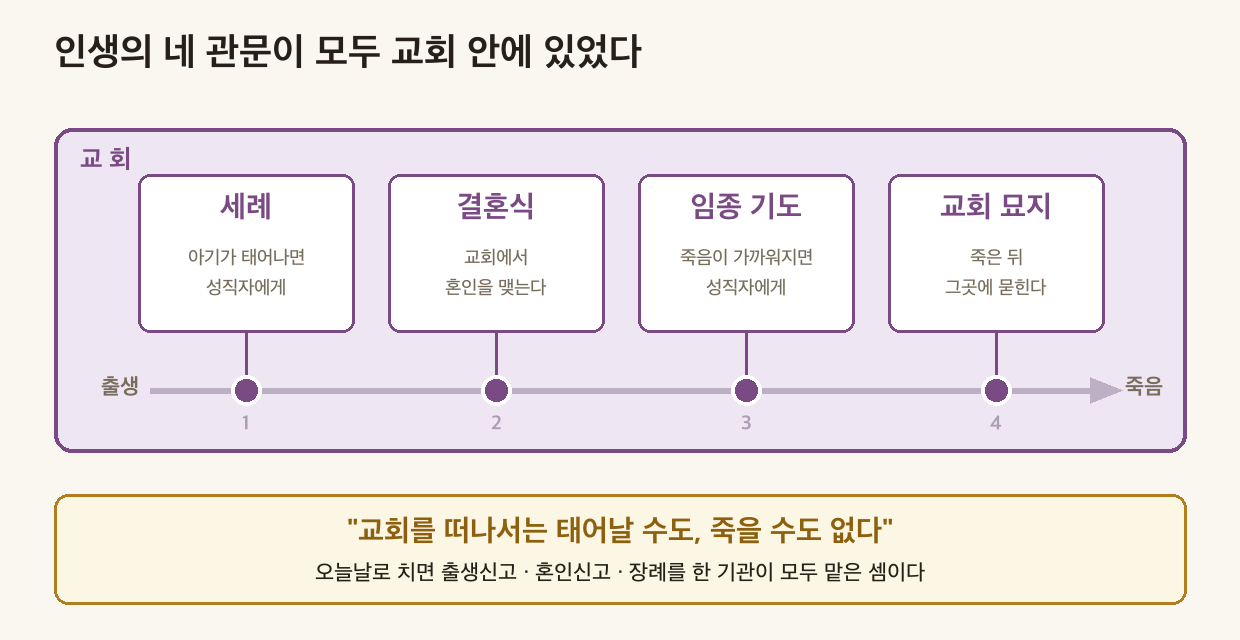
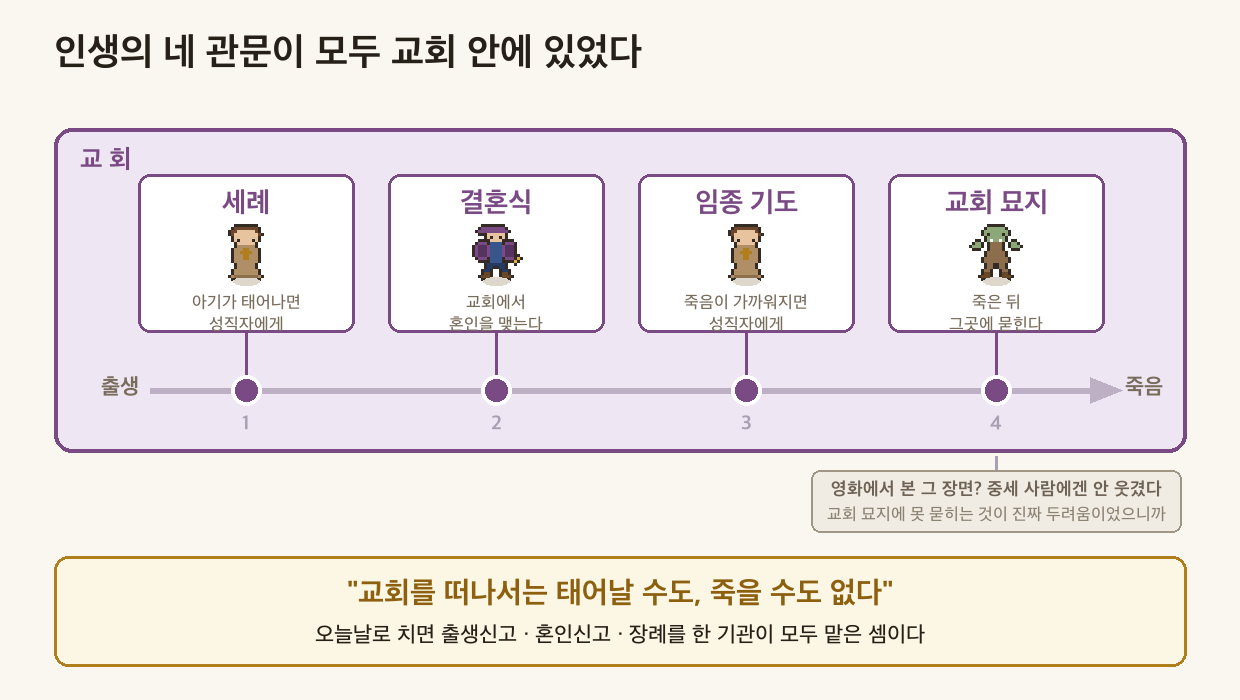
3-3-1 — 정밀 도트 스프라이트 8종 신설 · 이름 정리 도식(지위 vs 역할) · 세 신분·네 관문 도트화(좀비 훅) · 고급 단어 영주 추가

Changed region(s): [[0.0306, 0.1562, 0.9806, 0.9688], [0.0306, 0.0312, 0.521, 0.125]]

diff --git a/worksheets/3-3-1_봉건사회성립_개념편.html b/worksheets/3-3-1_봉건사회성립_개념편.html
@@ -216,6 +216,7 @@ blockquote {
 <tr><td><strong>주종</strong>(主從) 관계</td><td>주인과 따르는 사람의 관계</td><td>주(主, 주인) + 종(從, 따를)</td><td>"기사와 주군은 <strong>주종 관계</strong>를 맺었다."</td></tr>
 <tr><td><strong>봉토</strong>(封土)</td><td>충성의 대가로 받은 땅</td><td>봉(封, 내려 줌) + 토(土, 땅)</td><td>"주군은 봉신에게 <strong>봉토</strong>를 주었다."</td></tr>
 <tr><td><strong>장원</strong>(莊園)</td><td>영주가 다스리는 자급자족 농촌</td><td>장(莊, 농막) + 원(園, 뜰)</td><td>"봉토는 <strong>장원</strong> 형태로 운영되었다."</td></tr>
+<tr><td><strong>영주</strong>(領主)</td><td>자기 땅을 다스리는 주인</td><td>영(領, 거느릴) + 주(主, 주인)</td><td>"봉신은 장원의 <strong>영주</strong>가 되었다."</td></tr>
 <tr><td><strong>농노</strong>(農奴)</td><td>땅에 매인 농민</td><td>농(農, 농사) + 노(奴, 종)</td><td>"장원의 농민은 대부분 <strong>농노</strong>였다."</td></tr>
 </table>
 <br>
@@ -257,6 +258,12 @@ blockquote {
 <br>
 <blockquote>📖 <strong>91쪽 봉건 사회 구조 도식을 본다</strong> — 위에 우리가 그린 도식과 나란히 놓고 보자.</blockquote>
 <blockquote>교과서 91쪽에서 찾기 — 교과서 도식에 <strong>왕에서 기사로 곧장 가는 화살표</strong>가 있나, 없나? <input type="text" class="blank-input activity-input no-score" data-id="act-2" data-label="교과서 91쪽에서 찾기 — 교과서 도식에 왕에서 기사로 곧장 가는 화살표" style="width:200px" placeholder=""></blockquote>
+<br>
+<br>
+<figure class="ws-fig"><img src="images/3-3-1_이름정리.png" alt="헷갈리는 이름 정리 — 왼쪽은 사다리에서의 자리(왕·제후·기사·농노), 오른쪽은 같은 제후 한 사람이 상대에 따라 봉신·주군·영주로 불리는 모습. 주군과 봉신은 신분이 아니라 역할이다." loading="lazy"><figcaption>헷갈리는 이름 정리 — 왼쪽은 사다리에서의 자리(왕·제후·기사·농노), 오른쪽은 같은 제후 한 사람이 상대에 따라 봉신·주군·영주로 불리는 모습. 주군과 봉신은 신분이 아니라 역할이다.</figcaption></figure>
+<br>
+<blockquote>🎙 이름이 많아서 헷갈리는 게 아니야. <strong>두 가지를 같이 부르고 있어서</strong> 그래.</blockquote>
+<blockquote><strong>왕·제후·기사·농노</strong>는 <em>사다리에서 어디쯤 있나</em>(지위)이고, <strong>주군·봉신</strong>은 <em>지금 누구를 보고 있나</em>(역할)야. 그래서 같은 제후 한 사람이 <strong>위를 보면 봉신, 아래를 보면 주군</strong>, 자기 땅에서는 <strong>영주</strong>가 돼. 한 사람이 이름 셋을 가진 거지.</blockquote>
 <br>
 <h2>📖 3단계: 땅 위의 삶 — 장원과 농노</h2>
 <blockquote>📕 <strong>교과서 91쪽</strong> 펴고 채우기 · 배정 시간 <strong>7분</strong></blockquote>
